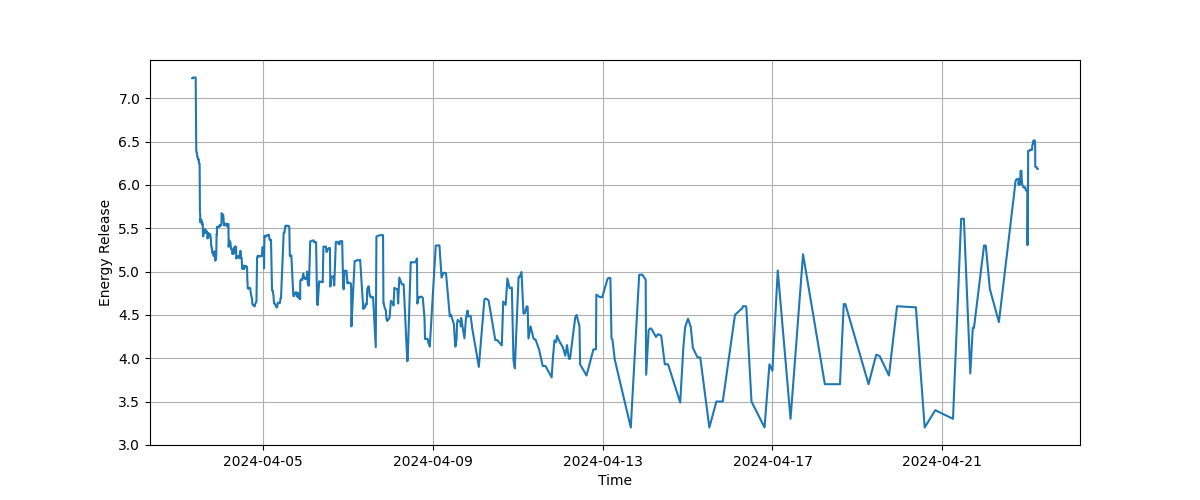
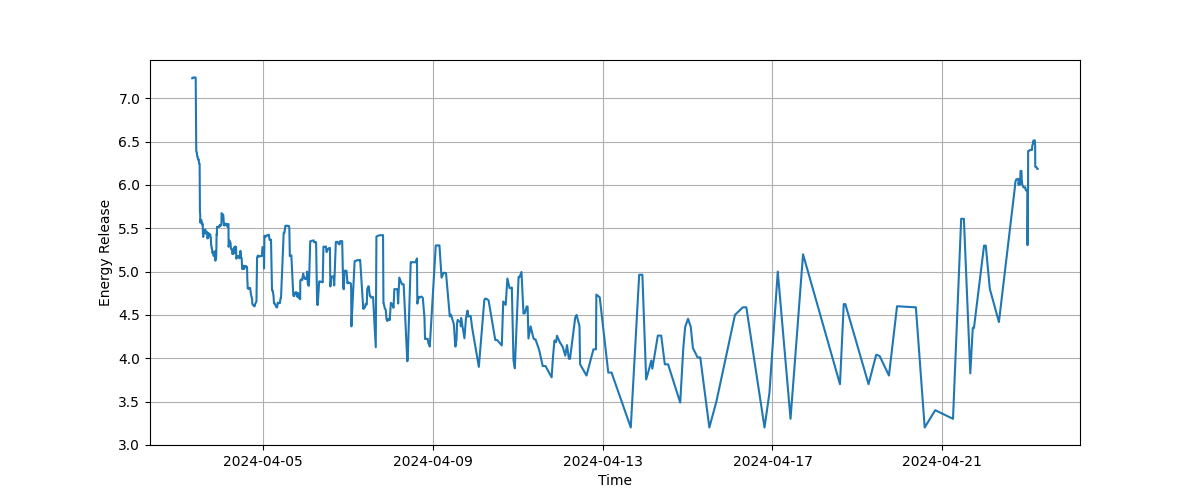
update data (exclude earthquakes on west Taiwan)

diff --git a/graph.py b/graph.py
@@ -31,6 +31,15 @@ class EarthquakeData:
         self.location_descriptions = []
 
     def process(self):
+        """
+        Process all data and store additional information. This method should be called only after all modifications
+        are done for the data.
+        """
+        self.longitudes = np.array(self.longitudes)
+        self.latitudes = np.array(self.latitudes)
+        self.magnitudes = np.array(self.magnitudes)
+        self.depths = np.array(self.depths)
+
         # Calculate running average of earthquake counts
         avg_hours = 4.0
         half_hours = timedelta(hours=avg_hours / 2)
@@ -52,6 +61,9 @@ class EarthquakeData:
             self.cumulative_magnitudes.insert(0, energy_to_magnitude(total_energy))
 
     def count(self, begin_time, end_time):
+        """
+        @return Number of earthquakes in the specified time range.
+        """
         count = 0
         for time in self.times:
             if time >= begin_time and time < end_time:
@@ -59,11 +71,40 @@ class EarthquakeData:
         return count
     
     def energy(self, begin_time, end_time):
+        """
+        @return Total energy in the specified time range.
+        """
         e = 0.0
         for i, time in enumerate(self.times):
             if time >= begin_time and time < end_time:
                 e += magnitude_to_energy(self.magnitudes[i])
         return e
+    
+    def remove_entries_by(self, longitude_range=(0.0, 0.0), latitude_range=(0.0, 0.0)):
+        for i in reversed(range(0, len(self.names))):
+            long, lat = (self.longitudes[i], self.latitudes[i])
+            if (longitude_range[0] <= long and long < longitude_range[1] and
+                latitude_range[0] <= lat and lat < latitude_range[1]):
+                self.remove_entry(i)
+    
+    def add_entry(self, name, time, longitude, latitude, magnitude, depth, location_description):
+        self.names.append(name)
+        self.times.append(time)
+        self.longitudes.append(longitude)
+        self.latitudes.append(latitude)
+        self.magnitudes.append(magnitude)
+        self.depths.append(depth)
+        self.location_descriptions.append(location_description)
+
+    def remove_entry(self, idx):
+        del self.names[idx]
+        del self.times[idx]
+        del self.longitudes[idx]
+        del self.latitudes[idx]
+        del self.magnitudes[idx]
+        del self.depths[idx]
+        del self.location_descriptions[idx]
+
 
 def read_data(file_name, begin_time, end_time):
     begin_time = datetime.strptime(begin_time, time_format)
@@ -82,19 +123,15 @@ def read_data(file_name, begin_time, end_time):
             if time < begin_time or time > end_time:
                 continue
 
-            data.names.append(row[0])
-            data.times.append(time)
-            data.longitudes.append(float(row[2]))
-            data.latitudes.append(float(row[3]))
-            data.magnitudes.append(float(row[4]))
-            data.depths.append(float(row[5]))
-            data.location_descriptions.append(row[6])
-
-    data.longitudes = np.array(data.longitudes)
-    data.latitudes = np.array(data.latitudes)
-    data.magnitudes = np.array(data.magnitudes)
-    data.depths = np.array(data.depths)
-
+            data.add_entry(
+                name=row[0],
+                time=time,
+                longitude=float(row[2]),
+                latitude=float(row[3]),
+                magnitude=float(row[4]),
+                depth=float(row[5]),
+                location_description=row[6])
+            
     return data
 
 
@@ -102,6 +139,10 @@ def read_data(file_name, begin_time, end_time):
 Path("./outputs/").mkdir(parents=True, exist_ok=True)
 
 data = read_data("data/20240423_0605.csv", "2024-04-03 07:58:00", "2025-04-03 07:58:00")
+
+# Exclude earthquakes on the west side of Taiwan
+data.remove_entries_by(longitude_range=(0.0, 120.45), latitude_range=(0.0, 90.0))
+
 data.process()
 
 fig = plt.figure(figsize=(12, 5))
@@ -109,7 +150,7 @@ ax = fig.add_subplot()
 ax.bar(
     data.times, 
     data.magnitudes,
-    width=0.0075,
+    width=0.01,
     alpha=0.5,
     color=np.where(data.magnitudes >= 5, 'r', np.where(data.magnitudes < 4, 'b', 'g')))
 ax.set_xlabel("Time")
